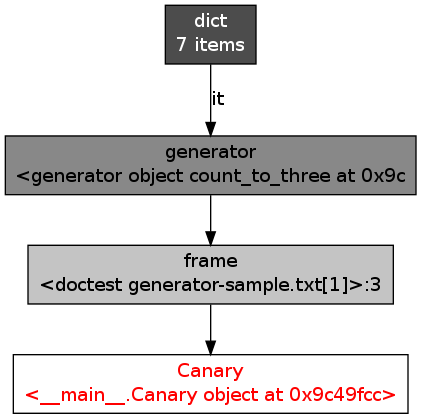
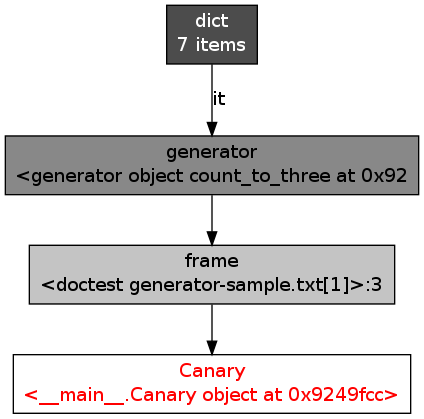
Test for extra_info.
Make it possible for extra_info() to return non-string values, so, e.g.,
show_refs(..., extra_info=id) would work.

diff --git a/objgraph.py b/objgraph.py
@@ -506,7 +506,7 @@ def obj_label(obj, extra_info=None, refcounts=False):
         #   something else that doesn't show up in gc.get_referrers()
     label.append(safe_repr(obj))
     if extra_info:
-        label.append(extra_info(obj))
+        label.append(str(extra_info(obj)))
     return quote('\n'.join(label))
 
 
